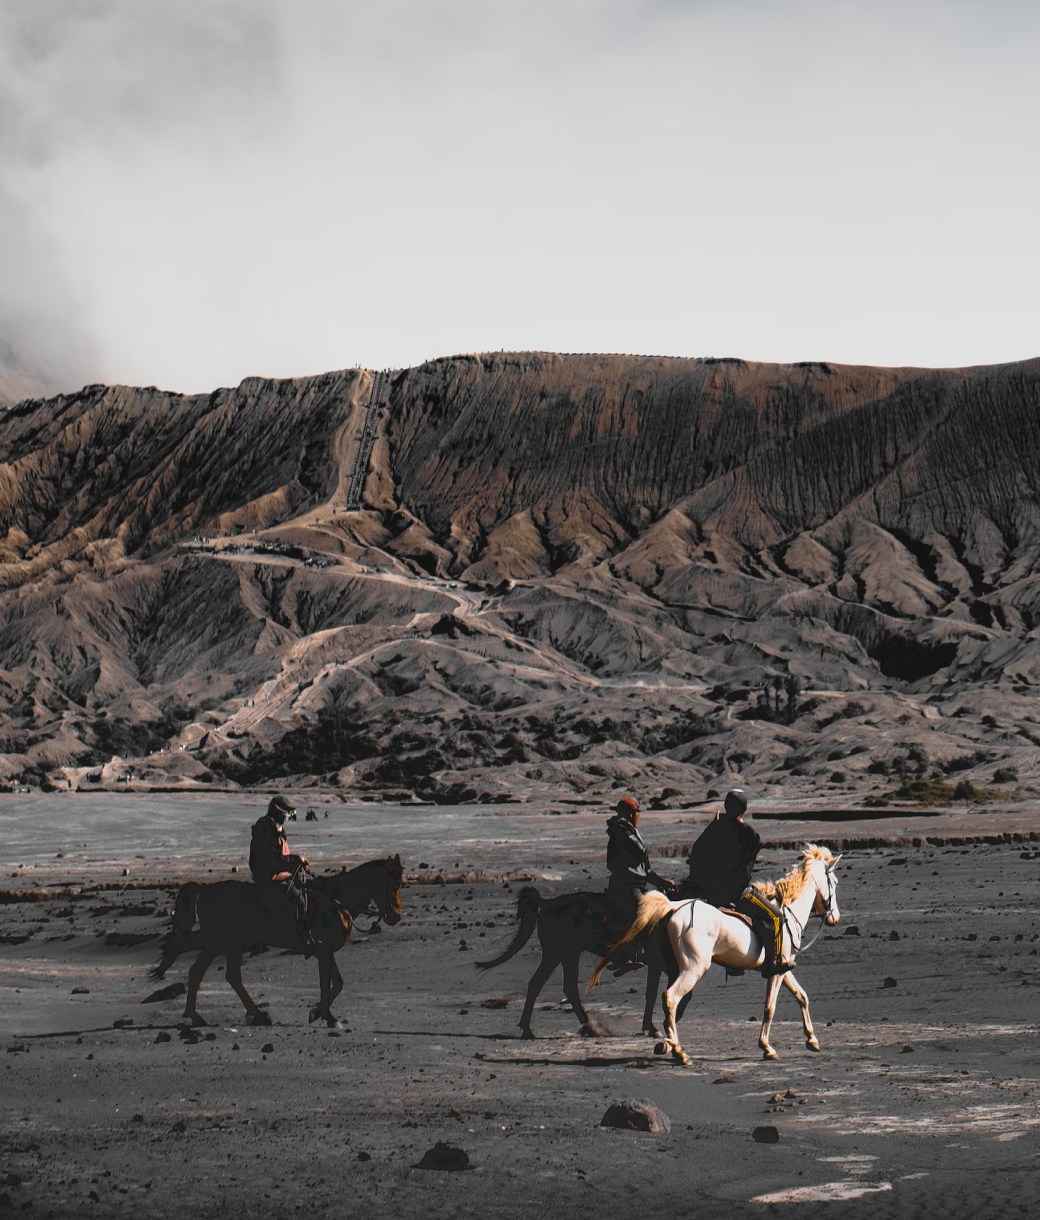
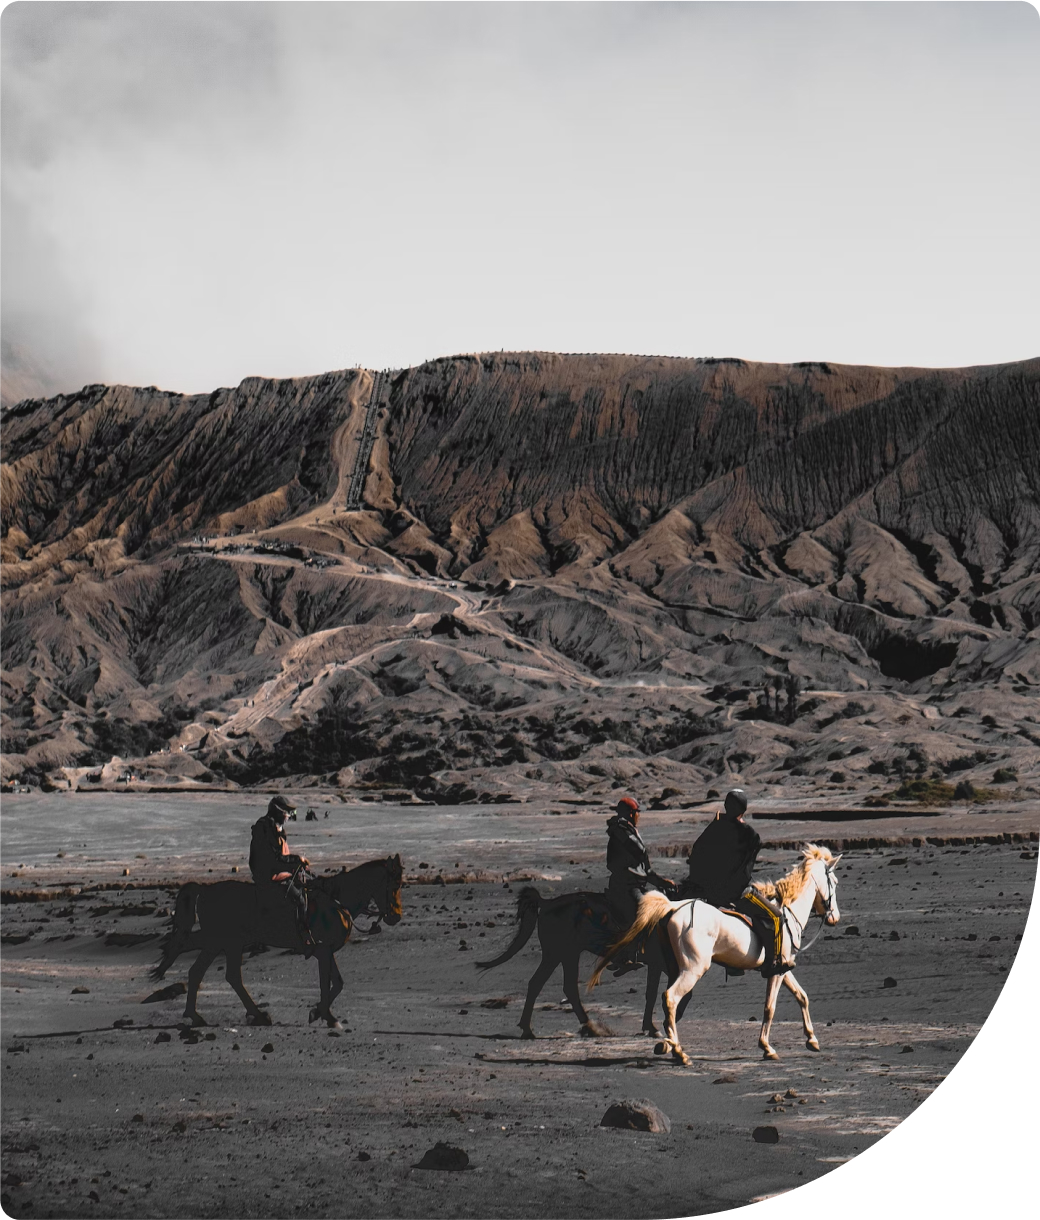
Complete Component Parts + Footer, also fixed mistyped class

diff --git a/src/parts/Footer.js b/src/parts/Footer.js
@@ -1,0 +1,88 @@
+import React from "react";
+
+import Button from "elements/Button";
+import IconText from "../parts/IconText.js";
+
+export default function Footer() {
+  return (
+    <footer>
+      <div className="container">
+        <div className="row">
+          <div className="col-auto" style={{ width: 350 }}>
+            <IconText />
+            <p className="brand-tagline">
+              We kaboom your beauty holiday instantly and memorable.
+            </p>
+          </div>
+          <div className="col-auto mr-5">
+            <h6 className="mt-2">For Beginners</h6>
+            <ul className="list-group list-group-flush">
+              <li className="list-group-item">
+                <Button type="link" href="/register">
+                  New Account
+                </Button>
+              </li>
+              <li className="list-group-item">
+                <Button type="link" href="/properties">
+                  Book a Room today
+                </Button>
+              </li>
+              <li className="list-group-item">
+                <Button type="link" href="/use-payments">
+                  Payments Option
+                </Button>
+              </li>
+            </ul>
+          </div>
+          <div className="col-2 mr-5">
+            <h6 className="mt-2">Explore Us</h6>
+            <ul className="list-group list-group-flush">
+              <li className="list-group-item">
+                <Button type="link" href="/careers">
+                  Our Careers
+                </Button>
+              </li>
+              <li className="list-group-item">
+                <Button type="link" href="/privacy">
+                  Privacy and Policy
+                </Button>
+              </li>
+              <li className="list-group-item">
+                <Button type="link" href="/terms">
+                  Terms & Conditions
+                </Button>
+              </li>
+            </ul>
+          </div>
+          <div className="col-3">
+            <h6 className="mt-2">Getting Touch</h6>
+            <ul className="list-group list-group-flush">
+              <li className="list-group-item">
+                <Button
+                  isExternal
+                  type="link"
+                  href="mailto:support@staycation.id"
+                >
+                  support@staycation.id
+                </Button>
+              </li>
+              <li className="list-group-item">
+                <Button isExternal type="link" href="tel:+622122081964">
+                  021 - 2208 - 1964
+                </Button>
+              </li>
+              <li className="list-group-item">
+                <span>Staycation, Kemang, Jakarta</span>
+              </li>
+            </ul>
+          </div>
+        </div>
+        <div className="row">
+          <div className="col text-center copyrights">
+            © Copyright 2021 • All right reserved • Staycation.id
+          </div>
+        </div>
+      </div>
+    </footer>
+  );
+}

diff --git a/src/parts/Testimony.js b/src/parts/Testimony.js
@@ -1,11 +1,52 @@
-import React from 'react'
+import React from "react";
 
-import Star from 'elements/Star'
+import TestimonyAccent from "../assets/images/testimonial-landingpages-frame.jpg";
+import Star from "elements/Star";
+import Button from "elements/Button";
 
-export default function Testimony() {
+export default function Testimony({ data }) {
   return (
-    <div>
-      <Star value={3.3} width={35} height={35} spacing={4} />
-    </div>
-  )
+    <section className="container">
+      <div className="row align-items-center">
+        <div className="col-auto" style={{ marginRight: 50 }}>
+          <div className="testimonial-hero" style={{ margin: `30px 0 0 30px` }}>
+            <img
+              src={data.imageUrl}
+              alt="Testimonial"
+              className="position-absolute"
+              style={{ zIndex: 1 }}
+            />
+            <img
+              src={TestimonyAccent}
+              alt="Testimonial Frame"
+              className="position-absolute"
+              style={{ margin: `-30px 0 0 -30px` }}
+            />
+          </div>
+        </div>
+        <div className="col">
+          <h4 style={{ marginBottom: 40 }}>{data.name}</h4>
+          <Star value={data.rate} width={40} height={35} spacing={5} />
+          <h5 className="h2 font-weight-light line-height-2 my-3">
+            {data.content}
+          </h5>
+          <span className="text-gray-500">
+            {data.familyName}, {data.familyOccupation}
+          </span>
+          <div>
+            <Button
+              className="btn px-5"
+              style={{ marginTop: 40 }}
+              hasShadow
+              isPrimary
+              type="link"
+              href={`/testimonial/${data._id}`}
+            >
+              Read Story
+            </Button>
+          </div>
+        </div>
+      </div>
+    </section>
+  );
 }

diff --git a/src/elements/Star/index.test.js b/src/elements/Star/index.test.js
@@ -1,0 +1,32 @@
+import React from "react";
+import { render } from "@testing-library/react";
+import Star from "./index";
+
+test("Should have props [value, height, width, spacing", () => {
+  const height = 40,
+    width = 40,
+    spacing = 4;
+  const { container } = render(
+    <Star width={width} height={height} spacing={spacing} value={3.6} />
+  );
+  const starYellow = "div.stars div.star:not(.placeholder)";
+
+  expect(container.querySelector("div.stars")).toBeInTheDocument();
+  expect(container.querySelector("div.stars")).toHaveAttribute(
+    "style",
+    expect.stringContaining(`height: ${height}px`)
+  );
+  expect(container.querySelector(starYellow)).toBeInTheDocument();
+  expect(container.querySelector(starYellow)).toHaveAttribute(
+    "style",
+    expect.stringContaining(`width: ${width}px`)
+  );
+  expect(container.querySelector(starYellow)).toHaveAttribute(
+    "style",
+    expect.stringContaining(`height: ${height}px`)
+  );
+  expect(container.querySelector(starYellow)).toHaveAttribute(
+    "style",
+    expect.stringContaining(`margin-right: ${spacing}px`)
+  );
+});

diff --git a/src/assets/scss/style.scss b/src/assets/scss/style.scss
@@ -5,6 +5,7 @@
  * Licensed under MIT (https://github.com/twbs/bootstrap/blob/main/LICENSE)
  */
 
+@import url("https://fonts.googleapis.com/css2?family=Poppins:300,400,500,700&display=swap");
 @import "colorVariables";
 @import "functions";
 @import "variables";
@@ -53,6 +54,7 @@
   text-decoration: none;
   &:hover {
     text-decoration: none;
+    color: $primary;
   }
 }
 
@@ -196,5 +198,42 @@ section {
         transform: scale(1);
       }
     }
+  }
+}
+
+.testimonial-hero,
+.testimonial-hero img {
+  width: 365px;
+  height: 500px;
+}
+
+footer {
+  border-top: 1px solid $gray-200;
+  padding-top: 50px;
+
+  .brand-tagline {
+    margin-top: 8px;
+    color: $gray-500;
+    font-weight: 300;
+  }
+
+  .list-group-item {
+    padding: 0.3125rem 0;
+    border: none;
+    a,
+    span {
+      color: $gray-500;
+      font-weight: 300;
+    }
+    a {
+      @include hover-focus {
+        color: $gray-800;
+      }
+    }
+  }
+  .copyrights {
+    margin: 50px 0;
+    font-weight: 300;
+    color: $gray-500;
   }
 }

diff --git a/src/pages/LandingPage.js b/src/pages/LandingPage.js
@@ -6,6 +6,7 @@ import Hero from "../parts/Hero.js";
 import MostPicked from "../parts/MostPicked.js";
 import Categories from "../parts/Categories.js";
 import Testimony from '../parts/Testimony.js'
+import Footer from '../parts/Footer.js'
 
 export default class LandingPage extends Component {
   constructor(props) {
@@ -22,7 +23,8 @@ export default class LandingPage extends Component {
           data={landingPage.mostPicked}
         />
         <Categories data={landingPage.categories} />
-        <Testimony></Testimony>
+        <Testimony data={landingPage.testimonial}></Testimony>
+        <Footer/>
       </>
     );
   }

diff --git a/src/parts/MostPicked.js b/src/parts/MostPicked.js
@@ -28,7 +28,7 @@ export default function MostPicked(props) {
                 <div className="meta-wrapper">
                   <Button
                     type="link"
-                    className="streched-link d-block text-white"
+                    className="stretched-link d-block text-white"
                     href={`/properties/${item._id}`}
                   >
                     <h5>{item.name}</h5>

diff --git a/src/elements/Star/index.js b/src/elements/Star/index.js
@@ -3,7 +3,7 @@ import React from "react";
 import propTypes from "prop-types";
 import "./index.scss";
 
-export default function Star(className, value, height, width, spacing) {
+export default function Star({className, value, height, width, spacing}) {
   const decimals = Number(value) % 1;
   const star = [];
   let leftPos = 0;

diff --git a/src/assets/scss/_colorVariables.scss b/src/assets/scss/_colorVariables.scss
@@ -3,7 +3,7 @@ $gray-100: #f8f9fa !default;
 $gray-200: #e9ecef !default;
 $gray-300: #dee2e6 !default;
 $gray-400: #ced4da !default;
-$gray-500: #adb5bd !default;
+$gray-500: #b0b0b0 !default;
 $gray-600: #6c757d !default;
 $gray-700: #495057 !default;
 $gray-800: #343a40 !default;

diff --git a/src/elements/Star/index.scss b/src/elements/Star/index.scss
@@ -11,7 +11,7 @@
     mask: url(../../assets/images/icons/star.svg) no-repeat center left;
     &:not(.placeholder) {
       z-index: 2;
-      background-color: $yellow;
+      background-color: $orange;
     }
     &.placeholder {
       z-index: 1;

diff --git a/src/assets/scss/_buttons.scss b/src/assets/scss/_buttons.scss
@@ -5,7 +5,8 @@
 //
 
 .btn {
-  display: inline-block;
+  display: inline-flex;
+  align-items: center;
   font-family: $btn-font-family;
   font-weight: $btn-font-weight;
   color: $body-color;
